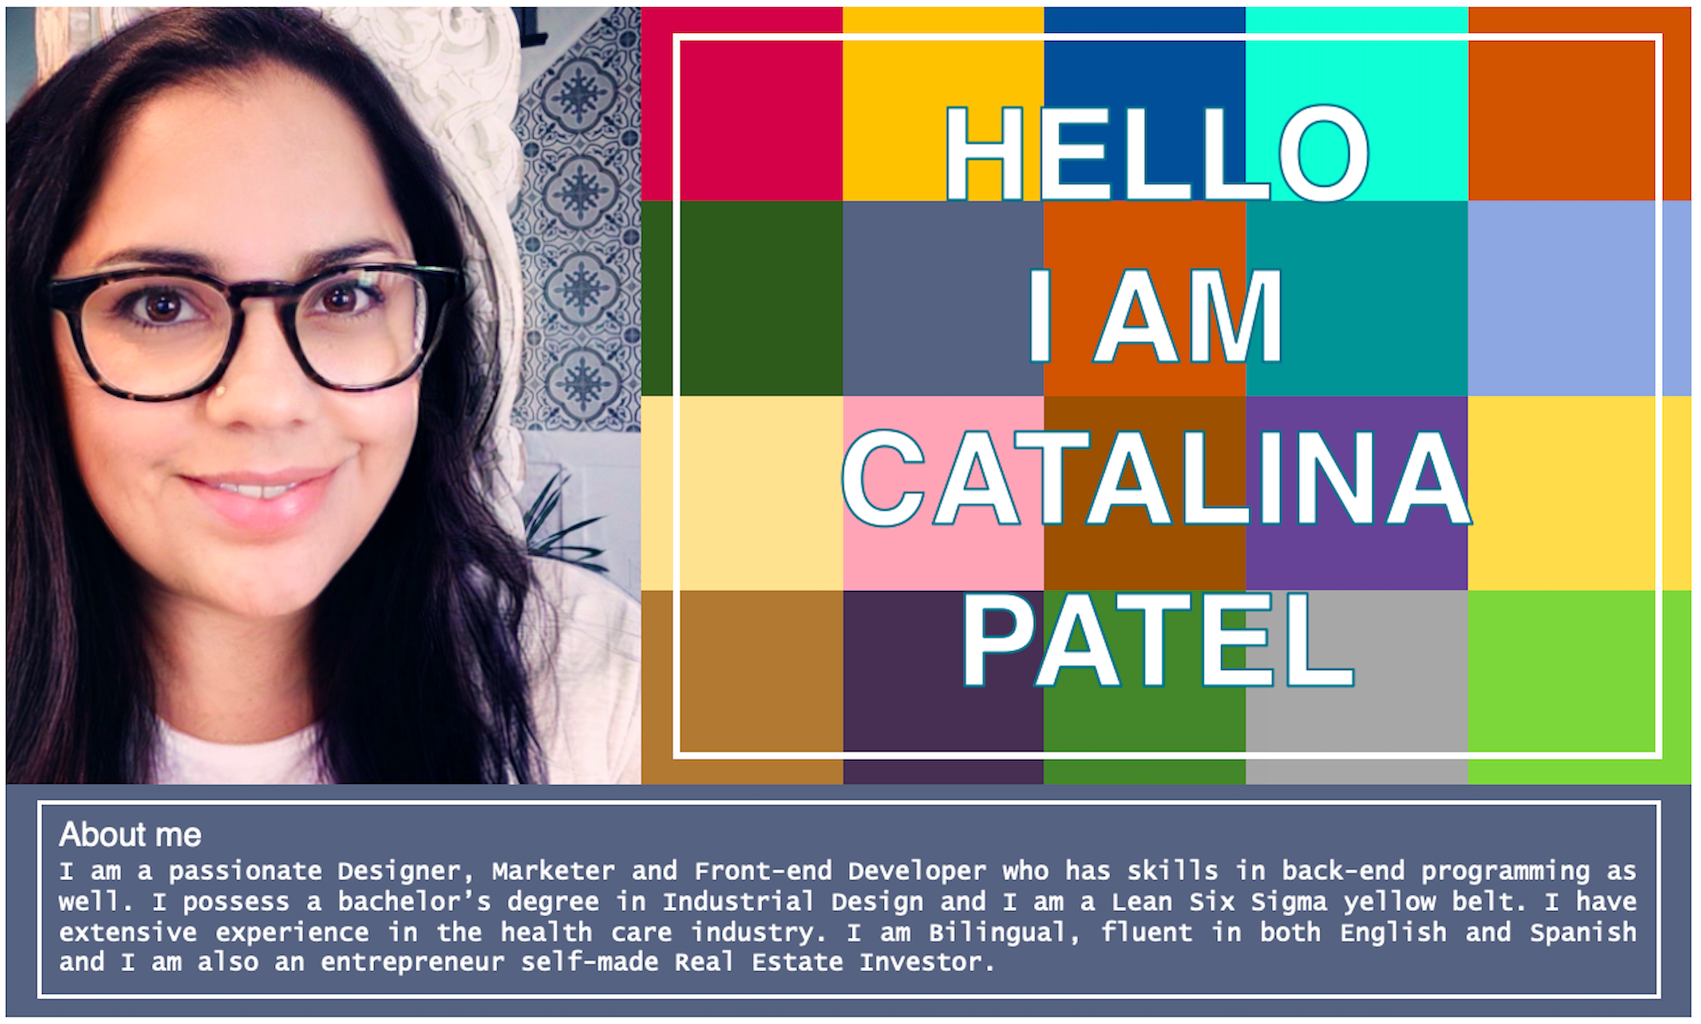
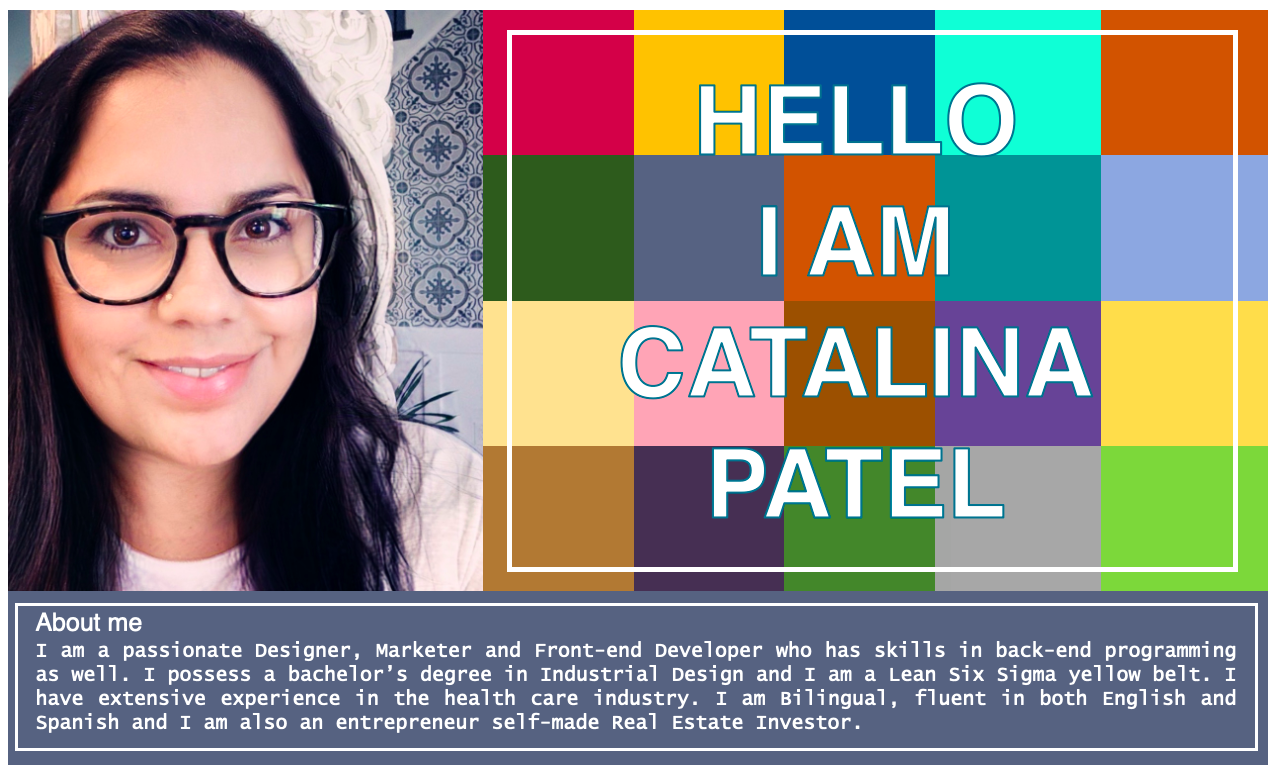
Style updates

diff --git a/index.html b/index.html
@@ -16,15 +16,23 @@
 <body>
     <header>
         <nav>
-            <div class="nav-wrapper light-green darken-4">
+            <div class="nav-wrapper blue-grey darken-3">
                 <div class="container">
                     <a href="#!" class="brand-logo">Catalina Patel Portfolio</a>
                     <a href="#" data-target="mobile" class="sidenav-trigger"><i class="material-icons">menu</i></a>
                     <ul class="right hide-on-med-and-down">
-                        <li><a href="index.html">Home</a></li>
-                        <li><a href="projects.html">Projects</a></li>
-                        <li><a href="resume.html">Resume</a></li>
-                        <li><a href="contact.html">Contact</a></li>
+                        <li><a href="index.html">
+                                <h5>Home</h5>
+                            </a></li>
+                        <li><a href="projects.html">
+                                <h5>Projects</h5>
+                            </a></li>
+                        <li><a href="resume.html">
+                                <h5>Resume</h5>
+                            </a></li>
+                        <li><a href="contact.html">
+                                <h5>Contact</h5>
+                            </a></li>
                     </ul>
                 </div>
             </div>
@@ -39,19 +47,32 @@
         <img class="responsive-img" src="assets/images/main.png">
     </header>
 
-    <footer class="page-footer amber darken-3">
+    <footer class="page-footer blue-grey darken-3">
         <div class="container">
             <div class="row">
-                <div class="col s12 l2">#Positive</div>
-                <div class="col s12 l2">#Balanced</div>
-                <div class="col s12 l2">#Consious</div>
-                <div class="col s12 l2">#Determined</div>
-                <div class="col s12 l2">#Genuine</div>
-                <div class="col s12 l2">#Creative</div>
+                <div class="col s12 l2">
+                    <h5>#Positive</h5>
+                </div>
+                <div class="col s12 l2">
+                    <h5>#Balanced</h5>
+                </div>
+                <div class="col s12 l2">
+                    <h5>#Consious</h5>
+                </div>
+                <div class="col s12 l2">
+                    <h5>#Determined</h5>
+                </div>
+                <div class="col s12 l2">
+                    <h5>#Genuine </h5>
+                </div>
+                <div class="col s12 l2">
+                    <h5>#Creative</h5>
+                </div>
             </div>
-            <div class="footer-copyright amber darken-4">
+            <div class="footer-copyright blue-grey darken-3">
                 <div class="container center-align">
-                    © 2020 Catalina Patel
+                    <h6>
+                        © 2020 Catalina Patel</h5>
                 </div>
             </div>
     </footer>

diff --git a/Style.css b/Style.css
@@ -6,14 +6,16 @@
     font-size: large;
 }
 
+
+
 body{
-    background-color: white;
+    background-color: #E6E6FA
 }
 
 img{
     width: 93%;
     height: 9%;
-    margin-left: 101px;
+    margin-left: 71px;
     margin-top: 0.3%;
     margin-bottom: 0%;
 }
@@ -27,6 +29,8 @@ img{
     color: white;
     font-family: Verdana, Geneva, Tahoma, sans-serif;
 }
+
+
 
 #footer{
     margin-bottom: 0%;
